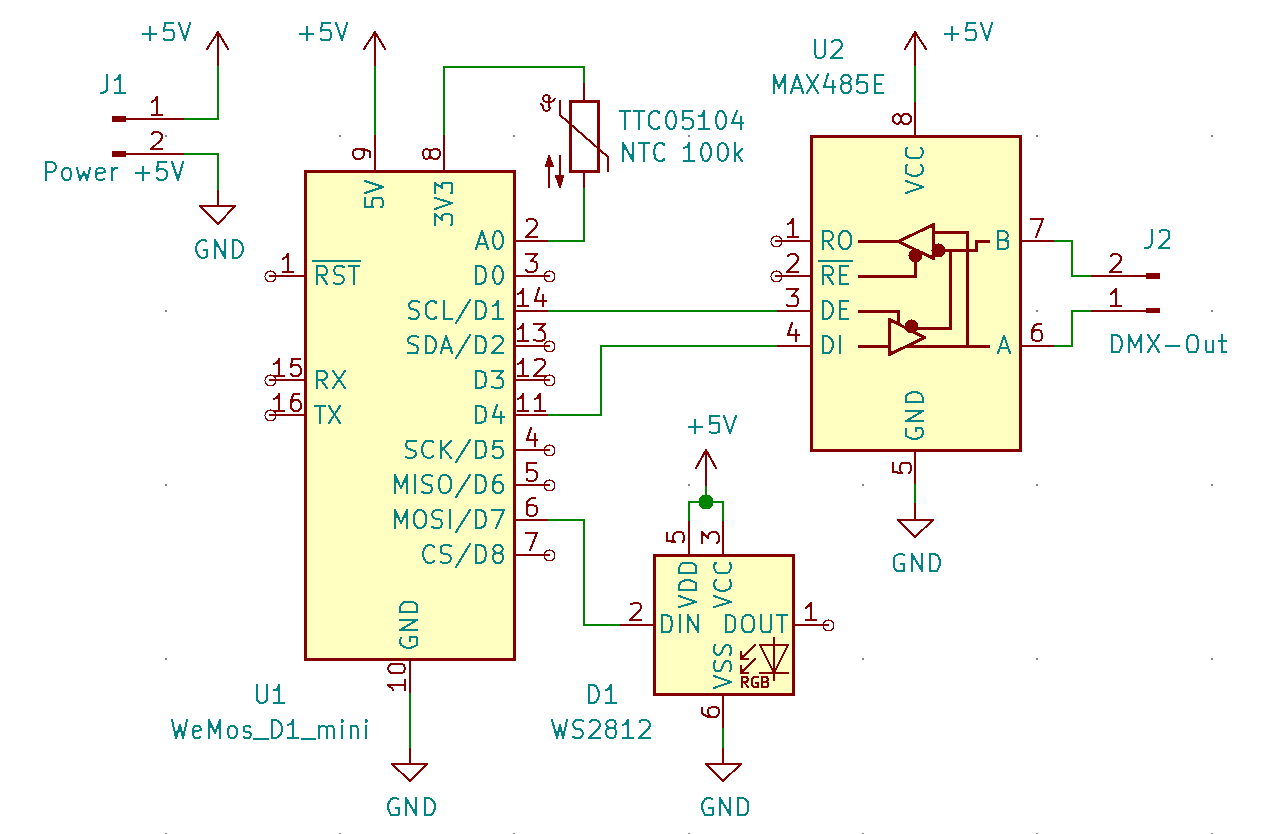
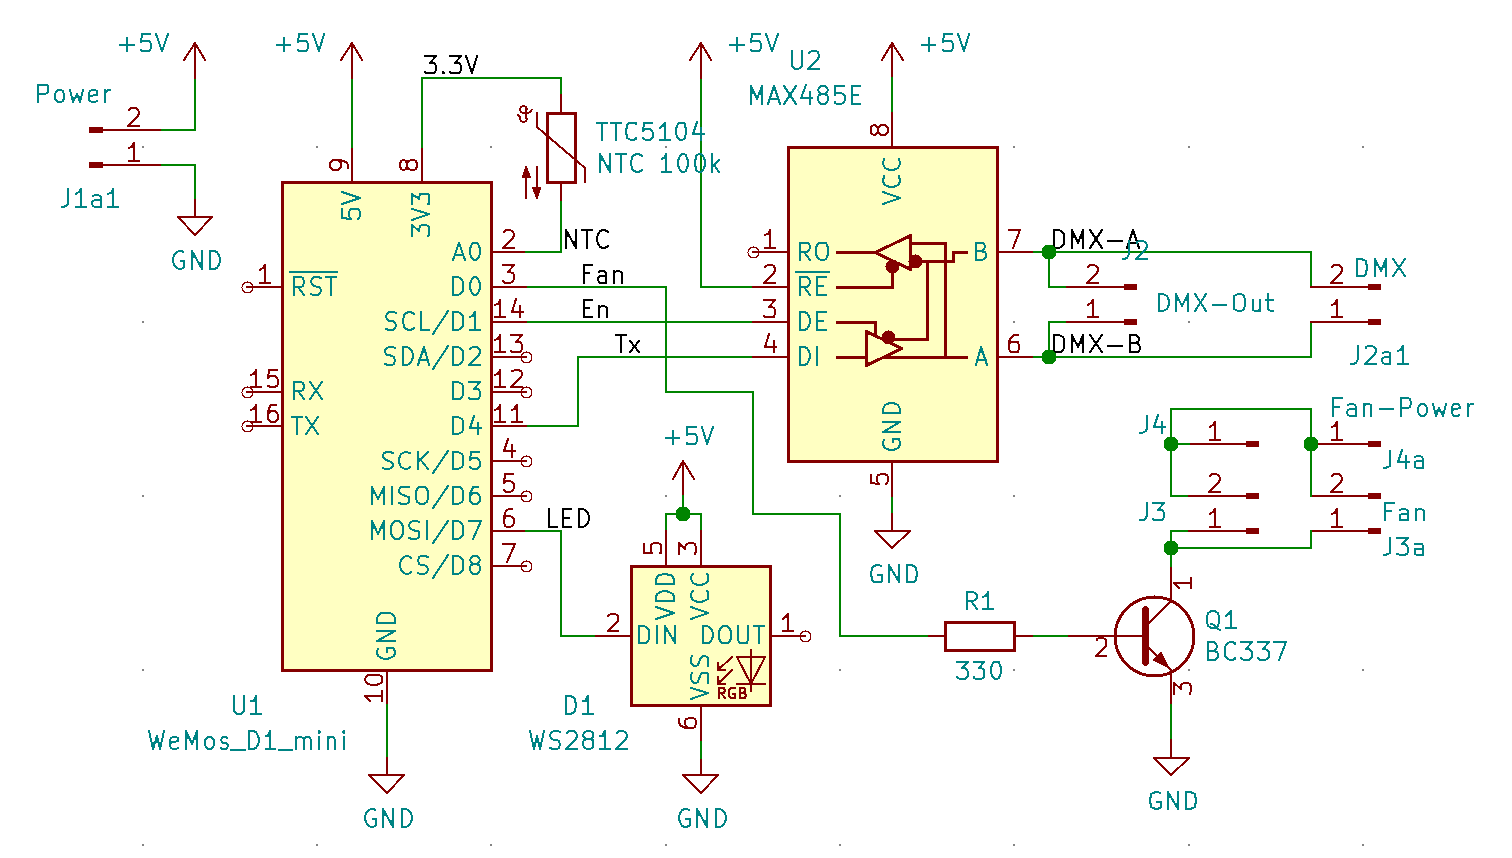
Updated documentation and added fan control

diff --git a/README.md b/README.md
@@ -35,11 +35,16 @@ Wherever there is activity on the web interface (configuration, monitoring), the
 
 - My cheap PARs semm not to like frames shorter than 512 channels.
 
-# Components
+# Components / Hardware
+
+Most ESP8266 modules or boards can be used. Personally I use the Wemos D1
+with the protoboard shield. The circuit is built on the protoboard.
 
   - Wemos D1 mini
-  - MAX485 module
+  - MAX485 module or chip
   - WS2812 RGB LED
+  - NPN transistor (with enough current for your fan), optional
+  - 100k NTC for temperature measurement, optional
 
 # Wiring diagram
 
@@ -47,7 +52,7 @@ Wherever there is activity on the web interface (configuration, monitoring), the
                             +-----+ 
                        Rst  +  W  +  Tx
           NTC <-        A0  +  E  +  Rx
-                 D0/GPIO16  +  M  +  D1/GPIO5   -> RS422 En
+          Fan <- D0/GPIO16  +  M  +  D1/GPIO5   -> RS422 En
         LED_B <- D5/GPIO14  +  O  +  D2/GPIO4 
         LED_R <- D6/GPIO12  +  S  +  D3/GPIO0*
     NEO/LED_G <- D7/GPIO13  +     +  D4/GPIO2*  -> RS422 Tx
@@ -61,7 +66,7 @@ Wherever there is activity on the web interface (configuration, monitoring), the
 	 Wemod D1 D1 <- 3 TxEn   outa 6  -> DMX fixture
 	 Wemod D1 D4 <- 4 Tx      gnd 5  -> Wemos D1 Gnd
 
-There is a schematic diagram and a wriring example among the files.
+There is are [schematics](Schematics.png) and a [wiring diagram](Wiring-Diagram.png) among the files.
 
 Some remarks:
 
@@ -72,7 +77,7 @@ Some remarks:
 
 # ToDo
 
-Add an Artnet PollReply so that the device is visible to Artnet controllers
+See the [todo list](engineering-notes/todo.txt)
 
 # Reference
 
